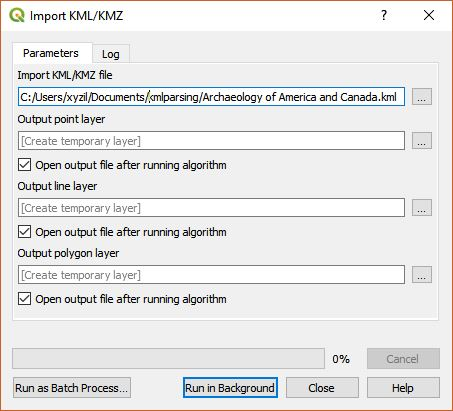
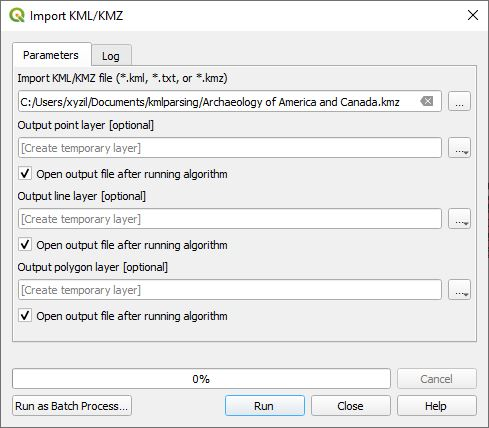
Allow .txt extensions for a KML.

Changed region(s): [[0.0, 0.0, 1.0, 1.0]]

diff --git a/index.html b/index.html
@@ -43,7 +43,7 @@ code {
 
 <h2>Vector Tools</h2>
 <h3><img src="icons/import.svg" alt="Import KML/KMZ"> <strong><em>Import KML/KMZ</em></strong></h3>
-<p>This functions as the name implies. It's interface is simple. Click on the ... button on the right of <strong><em>Import KML/KMZ file</em></strong> to select your file. Choose whether you want to include points, lines or polygons from the KML as QGIS output layers. If the KML file does not contain one of these geometry types, then the associated layer will not be created anyway.</p>
+<p>This functions as the name implies. It's interface is simple. Click on the ... button on the right of <strong><em>Import KML/KMZ file</em></strong> to select your file. Note that the file name extension must be <em>.kml, </em>.txt, or *.kmz. Choose whether you want to include points, lines or polygons from the KML as QGIS output layers. If the KML file does not contain one of these geometry types, then the associated layer will not be created anyway.</p>
 <div style="text-align:center"><img src="doc/import.jpg" alt="Import KML/KMZ"></div>
 
 <h3><img src="icons/html.svg" alt="HTML description expansion"> <strong><em>Expand HTML description field</em></strong></h3>

diff --git a/importKml.py b/importKml.py
@@ -49,7 +49,7 @@ class ImportKmlAlgorithm(QgsProcessingAlgorithm):
         self.addParameter(
             QgsProcessingParameterFile(
                 self.PrmInput,
-                tr('Import KML/KMZ file'))
+                tr('Import KML/KMZ file (*.kml, *.txt, or *.kmz)'))
         )
         self.addParameter(
             QgsProcessingParameterFeatureSink(
@@ -94,18 +94,16 @@ class ImportKmlAlgorithm(QgsProcessingAlgorithm):
                         kml = kmz.open(kmz_doc_file, 'r')
                     else:
                         msg = "Couldn't find kml document in kmz file"
-                        feedback.reportError(msg)
                         raise QgsProcessingException(msg)
                        
-            elif extension == '.kml':
+            elif extension == '.kml' or extension == '.txt':
                 kml = open(filename, encoding="utf-8", errors="backslashreplace")
             else:
-                msg = "Invalid extension: Should be kml or kmz"
+                msg = "Invalid extension: Should be *.kml, *.txt, or *.kmz."
                 feedback.reportError(msg)
                 raise QgsProcessingException(msg)
         except Exception:
-            msg = "Failed to open file"
-            feedback.reportError(msg)
+            msg = "Failed to open file."
             raise QgsProcessingException(msg)
 
         skipPt = True if self.PrmPointOutputLayer not in parameters or parameters[self.PrmPointOutputLayer] is None else False

diff --git a/readme.md b/readme.md
@@ -10,7 +10,7 @@ The native QGIS importer creates separate layers for each folder within a KML/KM
 ## Vector Tools
 
 ### <img src="icons/import.svg" alt="Import KML/KMZ"> ***Import KML/KMZ***
-This functions as the name implies. It's interface is simple. Click on the ... button on the right of ***Import KML/KMZ file*** to select your file. Choose whether you want to include points, lines or polygons from the KML as QGIS output layers. If the KML file does not contain one of these geometry types, then the associated layer will not be created anyway.
+This functions as the name implies. It's interface is simple. Click on the ... button on the right of ***Import KML/KMZ file*** to select your file. Note that the file name extension must be *.kml, *.txt, or *.kmz. Choose whether you want to include points, lines or polygons from the KML as QGIS output layers. If the KML file does not contain one of these geometry types, then the associated layer will not be created anyway.
 
 <div style="text-align:center"><img src="doc/import.jpg" alt="Import KML/KMZ"></div>
 
